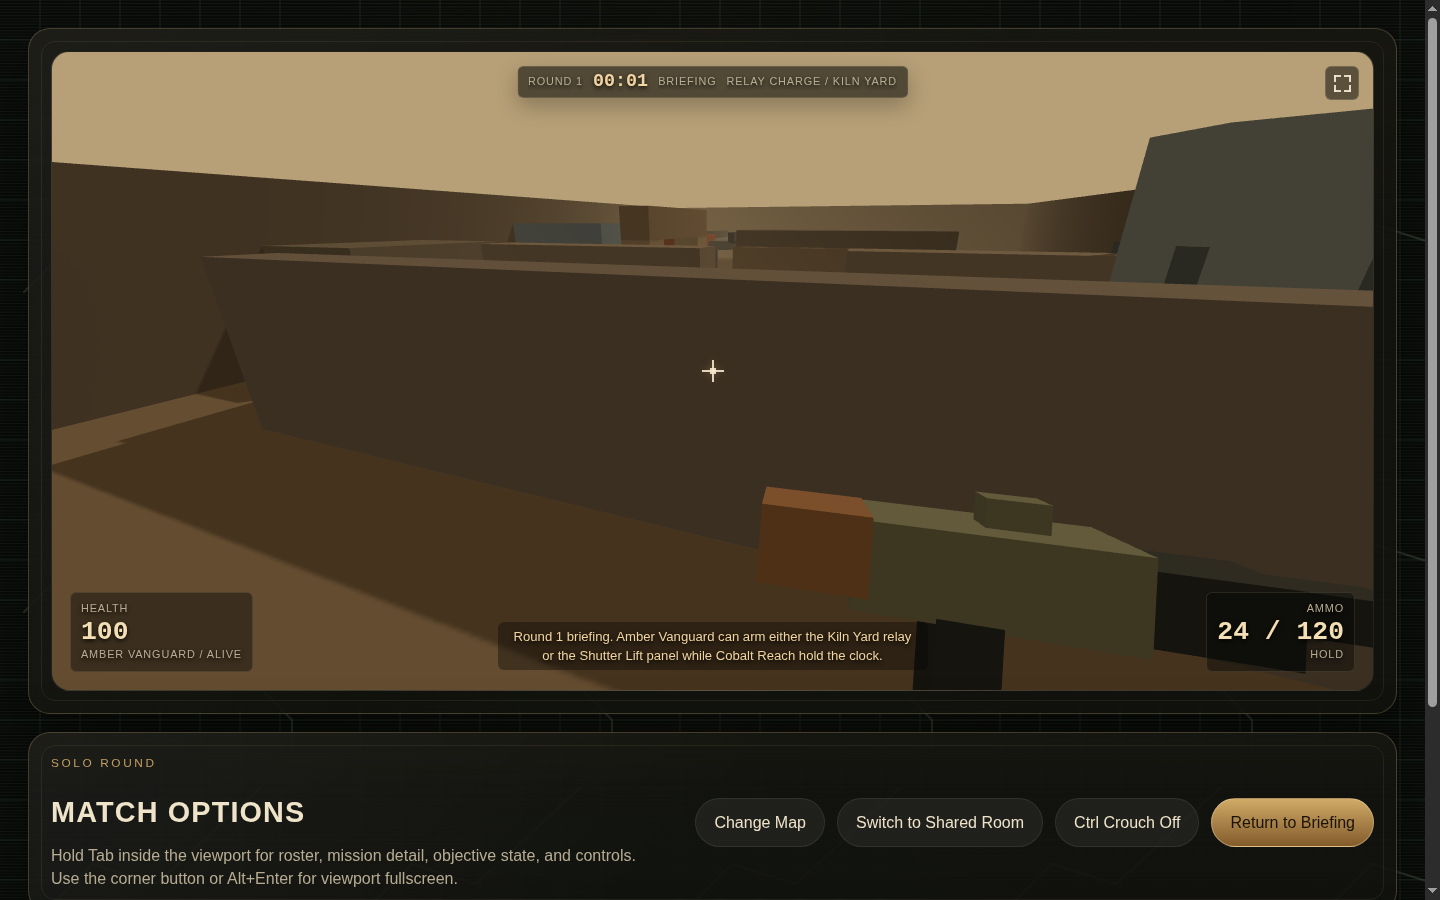
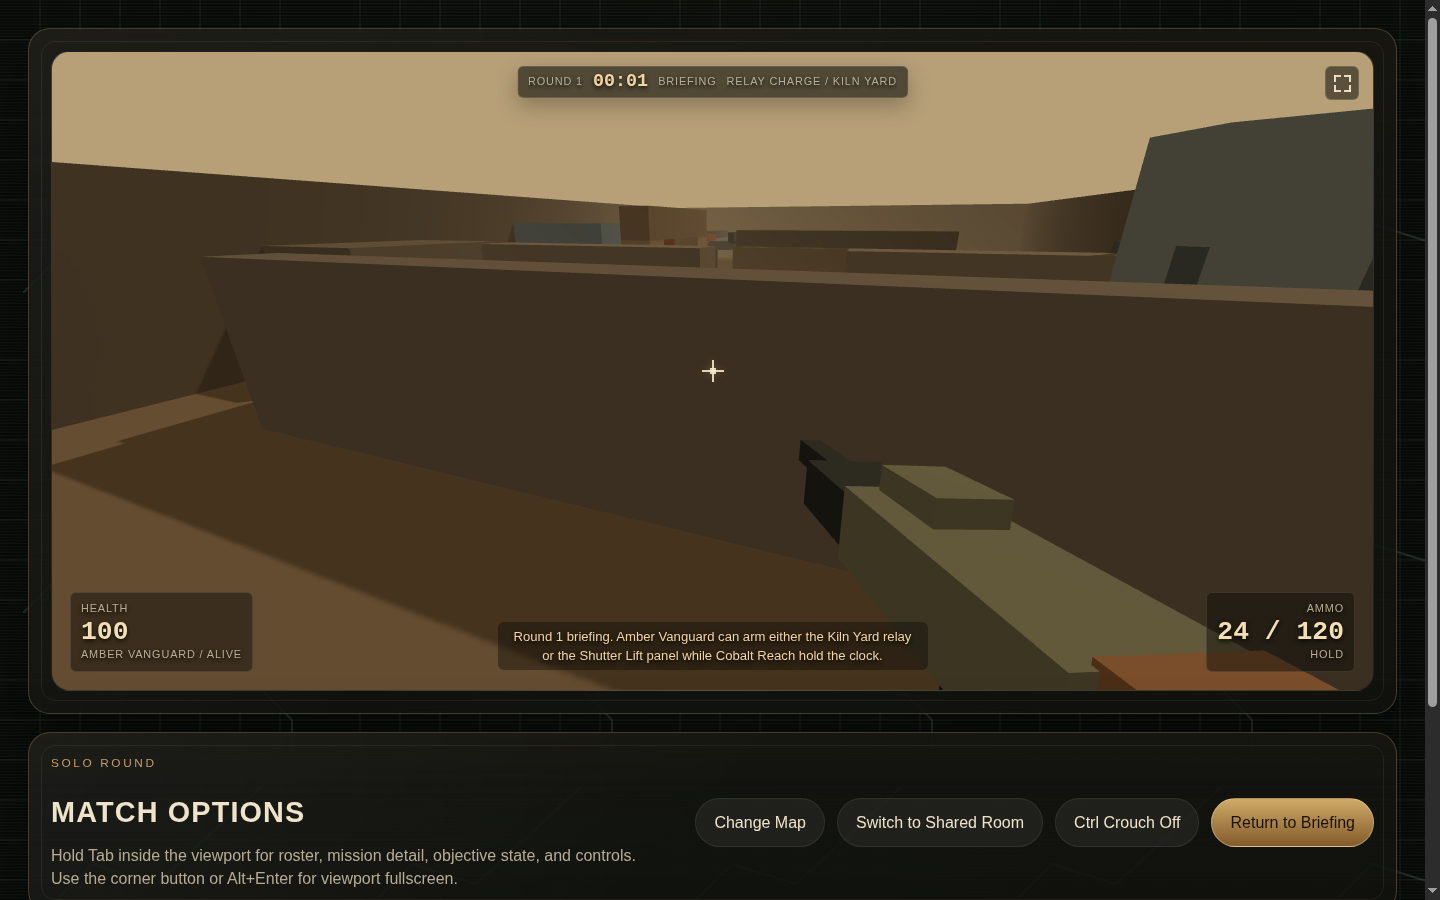
botpipe: step goal run-20260529T002603Z-75670396 14 work_subgoal

Changed region(s): [[0.5312, 0.4978, 0.9375, 0.7778], [0.9375, 0.6533, 0.9688, 0.7156]]

diff --git a/src/game/localMatch.ts b/src/game/localMatch.ts
@@ -498,6 +498,7 @@ export class LocalMatch {
         rendererWidth: this.renderer.domElement.width,
         rendererHeight: this.renderer.domElement.height,
       },
+      weaponView: this.weaponViewSnapshot(),
       localPlayer: {
         id: this.playerIdentity.id,
         name: this.playerIdentity.name,
@@ -587,6 +588,7 @@ export class LocalMatch {
         alive: enemy.alive,
         health: enemy.health,
         position: this.toPoint(enemy.avatar.group.position, 0),
+        posture: this.combatantPostureSnapshot(enemy.avatar.group, enemy.alive),
         ai: {
           role: enemy.ai.role,
           behavior: enemy.ai.behavior,
@@ -630,6 +632,7 @@ export class LocalMatch {
         status: actor.status,
         health: actor.health,
         position: this.toPoint(actor.displayPosition),
+        posture: this.combatantPostureSnapshot(actor.avatar.group, actor.status === "alive"),
       })),
     };
   }
@@ -958,11 +961,7 @@ export class LocalMatch {
     }
 
     enemy.avatar.group.position.copy(caseData.enemyPosition);
-    enemy.avatar.group.lookAt(
-      caseData.blockedPlayerPosition.x,
-      this.playerEyeHeight,
-      caseData.blockedPlayerPosition.z,
-    );
+    this.faceCombatantAt(enemy.avatar.group, caseData.enemyPosition, caseData.blockedPlayerPosition);
     this.configureEnemyAi(enemy, this.enemies.indexOf(enemy));
     this.lastPlayerNoiseAt = Number.NEGATIVE_INFINITY;
     this.lastPlayerNoisePosition.copy(caseData.blockedPlayerPosition);
@@ -1401,6 +1400,7 @@ export class LocalMatch {
       actor.targetPosition.copy(spawn);
       actor.displayPosition.copy(spawn);
       actor.avatar.group.position.copy(spawn);
+      actor.avatar.group.rotation.set(0, 0, 0);
       actor.hitFlashUntil = 0;
     }
   }
@@ -1497,13 +1497,22 @@ export class LocalMatch {
       existing.deaths = presence.deaths;
       existing.status = presence.status;
       existing.targetPosition.set(presence.position[0], 0, presence.position[2]);
-      existing.forward.set(presence.look[0], 0, presence.look[2]).normalize();
+      this.tempLook.set(presence.look[0], 0, presence.look[2]);
+      if (this.tempLook.lengthSq() > 0.0001) {
+        existing.forward.copy(this.tempLook.normalize());
+      }
       existing.lastSeenAt = presence.updatedAt;
       return;
     }
 
     const avatar = createCombatantAvatar(presence.accentColor);
     const spawnPosition = new THREE.Vector3(presence.position[0], 0, presence.position[2]);
+    const forward = new THREE.Vector3(presence.look[0], 0, presence.look[2]);
+    if (forward.lengthSq() > 0.0001) {
+      forward.normalize();
+    } else {
+      forward.set(0, 0, -1);
+    }
     avatar.group.position.copy(spawnPosition);
     this.scene.add(avatar.group);
 
@@ -1525,7 +1534,7 @@ export class LocalMatch {
       status: presence.status,
       targetPosition: spawnPosition.clone(),
       displayPosition: spawnPosition.clone(),
-      forward: new THREE.Vector3(presence.look[0], 0, presence.look[2]).normalize(),
+      forward,
       moveBlend: 0,
       hitFlashUntil: 0,
       lastSeenAt: presence.updatedAt,
@@ -2728,12 +2737,8 @@ export class LocalMatch {
       actor.avatar.group.position.x = actor.displayPosition.x;
       actor.avatar.group.position.z = actor.displayPosition.z;
 
-      const facing = actor.forward.lengthSq() > 0.01 ? actor.forward : new THREE.Vector3(0, 0, 1);
-      actor.avatar.group.lookAt(
-        actor.displayPosition.x + facing.x,
-        0.9,
-        actor.displayPosition.z + facing.z,
-      );
+      const facing = actor.forward.lengthSq() > 0.01 ? actor.forward : this.tempLook.set(0, 0, -1);
+      this.setCombatantYawFromDirection(actor.avatar.group, facing.x, facing.z);
 
       const moving = actor.displayPosition.distanceTo(actor.targetPosition) > 0.06 ? 1 : 0;
       actor.moveBlend = THREE.MathUtils.damp(actor.moveBlend, moving, 9, delta);
@@ -2953,7 +2958,7 @@ export class LocalMatch {
       enemy.ai.targetPosition.copy(targetPosition);
 
       const lookTarget = canSeePlayer ? playerFeet : targetPosition;
-      enemy.avatar.group.lookAt(lookTarget.x, this.enemyEyeHeight(enemy), lookTarget.z);
+      this.faceCombatantAt(enemy.avatar.group, enemyPosition, lookTarget);
 
       if (canSeePlayer && shotProfile && !previousVisibility) {
         enemy.nextFireAt = Math.max(enemy.nextFireAt, now + shotProfile.reactionSeconds);
@@ -3666,6 +3671,71 @@ export class LocalMatch {
     );
   }
 
+  private setCombatantYawFromDirection(
+    group: THREE.Object3D,
+    directionX: number,
+    directionZ: number,
+  ): void {
+    if (directionX * directionX + directionZ * directionZ <= 0.0001) {
+      group.rotation.x = 0;
+      group.rotation.z = 0;
+      return;
+    }
+
+    // Match Object3D.lookAt's local -Z facing convention without pitching the avatar root.
+    group.rotation.set(0, Math.atan2(-directionX, -directionZ), 0);
+  }
+
+  private faceCombatantAt(
+    group: THREE.Object3D,
+    origin: THREE.Vector3,
+    target: THREE.Vector3,
+  ): void {
+    this.setCombatantYawFromDirection(group, target.x - origin.x, target.z - origin.z);
+  }
+
+  private weaponViewSnapshot(): Record<string, unknown> {
+    this.camera.updateMatrixWorld(true);
+    this.weaponRig.muzzle.updateWorldMatrix(true, false);
+
+    const muzzleCameraPosition = this.weaponRig.muzzle.getWorldPosition(new THREE.Vector3());
+    this.camera.worldToLocal(muzzleCameraPosition);
+
+    const barrelForward = new THREE.Vector3(0, 0, -1)
+      .applyEuler(this.weaponRig.group.rotation)
+      .normalize();
+    const rootPosition = this.weaponRig.group.position;
+
+    return {
+      rootPosition: this.toPoint(rootPosition),
+      rootRotation: this.toRotation(this.weaponRig.group.rotation),
+      barrelForward: this.toPoint(barrelForward),
+      muzzleCameraPosition: this.toPoint(muzzleCameraPosition),
+      lowRight: rootPosition.x > 0.28 && rootPosition.y < -0.25 && rootPosition.z < -0.35,
+      forwardAligned: barrelForward.z < -0.94,
+      muzzleAheadOfRoot: muzzleCameraPosition.z < rootPosition.z - 0.18,
+      muzzleFlashActive: this.muzzleFlashUntil > this.gameNow(),
+      muzzleFlashRecent: this.muzzleFlashUntil > 0 && this.gameNow() <= this.muzzleFlashUntil + 0.35,
+      flashVisible: this.weaponRig.flash.visible,
+    };
+  }
+
+  private combatantPostureSnapshot(
+    group: THREE.Object3D,
+    alive: boolean,
+  ): Record<string, unknown> {
+    const feetY = Number(group.position.y.toFixed(3));
+    const rootPitch = Number(group.rotation.x.toFixed(4));
+    const rootRoll = Number(group.rotation.z.toFixed(4));
+
+    return {
+      rotation: this.toRotation(group.rotation),
+      feetY,
+      upright: !alive || (Math.abs(rootPitch) <= 0.01 && Math.abs(rootRoll) <= 0.08),
+      aboveGround: !alive || feetY >= -0.01,
+    };
+  }
+
   private enemyEyeHeight(enemy: EnemyActor, stance = enemy.ai.stance): number {
     return stance === "crouched" ? ENEMY_CROUCH_EYE_HEIGHT : ENEMY_STANDING_EYE_HEIGHT;
   }
@@ -3916,6 +3986,14 @@ export class LocalMatch {
       x: Number(vector.x.toFixed(2)),
       y: Number((forcedY ?? vector.y).toFixed(2)),
       z: Number(vector.z.toFixed(2)),
+    };
+  }
+
+  private toRotation(euler: THREE.Euler): { x: number; y: number; z: number } {
+    return {
+      x: Number(euler.x.toFixed(4)),
+      y: Number(euler.y.toFixed(4)),
+      z: Number(euler.z.toFixed(4)),
     };
   }
 }

diff --git a/src/game/avatar.ts b/src/game/avatar.ts
@@ -14,6 +14,8 @@ export interface CombatantAvatar {
 
 export interface WeaponRig {
   group: THREE.Group;
+  muzzle: THREE.Object3D;
+  flash: THREE.Object3D;
   update(
     elapsed: number,
     moveBlend: number,
@@ -144,6 +146,7 @@ export function createCombatantAvatar(accentColor: string): CombatantAvatar {
       torso.rotation.z = alive ? Math.sin(elapsed * 3.2) * 0.035 * moveBlend : -0.18;
       rifle.rotation.z = alive ? -0.12 - recoil * 0.18 : -0.48;
       rifle.rotation.x = alive ? -0.08 : 0.22;
+      group.rotation.x = 0;
       group.rotation.z = alive ? 0 : 1.34;
       group.position.y = alive ? 0 : 0.08;
 
@@ -165,37 +168,43 @@ export function createWeaponRig(): WeaponRig {
     opacity: 0.92,
   });
 
-  const receiver = new THREE.Mesh(new THREE.BoxGeometry(0.52, 0.18, 0.18), bodyMaterial);
-  receiver.position.set(0, 0.02, 0);
+  const receiver = new THREE.Mesh(new THREE.BoxGeometry(0.28, 0.18, 0.58), bodyMaterial);
+  receiver.position.set(0.02, 0.02, -0.08);
   group.add(receiver);
 
-  const stock = new THREE.Mesh(new THREE.BoxGeometry(0.22, 0.16, 0.16), accentMaterial);
-  stock.position.set(-0.34, 0.04, 0.02);
+  const stock = new THREE.Mesh(new THREE.BoxGeometry(0.24, 0.16, 0.24), accentMaterial);
+  stock.position.set(0.04, 0.04, 0.32);
   group.add(stock);
 
-  const handguard = new THREE.Mesh(new THREE.BoxGeometry(0.32, 0.14, 0.14), detailMaterial);
-  handguard.position.set(0.34, 0.01, 0);
+  const handguard = new THREE.Mesh(new THREE.BoxGeometry(0.24, 0.14, 0.36), detailMaterial);
+  handguard.position.set(0.02, 0.01, -0.5);
   group.add(handguard);
 
   const grip = new THREE.Mesh(new THREE.BoxGeometry(0.12, 0.28, 0.12), detailMaterial);
-  grip.position.set(-0.04, -0.2, 0.03);
+  grip.position.set(0.02, -0.2, -0.02);
   group.add(grip);
 
-  const sight = new THREE.Mesh(new THREE.BoxGeometry(0.12, 0.06, 0.06), bodyMaterial);
-  sight.position.set(0.06, 0.14, 0);
+  const sight = new THREE.Mesh(new THREE.BoxGeometry(0.16, 0.06, 0.2), bodyMaterial);
+  sight.position.set(0.02, 0.15, -0.22);
   group.add(sight);
 
-  const barrel = new THREE.Mesh(new THREE.BoxGeometry(0.22, 0.08, 0.08), detailMaterial);
-  barrel.position.set(0.58, 0.03, 0);
+  const barrel = new THREE.Mesh(new THREE.BoxGeometry(0.08, 0.08, 0.32), detailMaterial);
+  barrel.position.set(0.02, 0.03, -0.82);
   group.add(barrel);
 
+  const muzzle = new THREE.Object3D();
+  muzzle.position.set(0.02, 0.03, -1);
+  group.add(muzzle);
+
   const flash = new THREE.Mesh(new THREE.BoxGeometry(0.18, 0.18, 0.18), flashMaterial);
-  flash.position.set(0.73, 0.03, 0);
+  flash.position.copy(muzzle.position);
   flash.visible = false;
   group.add(flash);
 
   return {
     group,
+    muzzle,
+    flash,
     update(elapsed, moveBlend, recoil, firing, crouchBlend, airborneBlend) {
       const bob = Math.sin(elapsed * 9.4) * 0.018 * moveBlend;
       const sway = Math.cos(elapsed * 4.2) * 0.01;
@@ -203,14 +212,14 @@ export function createWeaponRig(): WeaponRig {
       const airborneLift = 0.05 * airborneBlend;
 
       group.position.set(
-        0.56 + sway,
+        0.48 + sway,
         -0.48 + bob - recoil * 0.08 - crouchDrop + airborneLift,
-        -0.92 + recoil * 0.14 + crouchBlend * 0.05,
+        -0.72 + recoil * 0.14 + crouchBlend * 0.05,
       );
       group.rotation.set(
-        -0.1 + recoil * 0.08 - crouchBlend * 0.04 + airborneBlend * 0.06,
-        -0.18,
-        -0.08 - recoil * 0.12 - crouchBlend * 0.02,
+        0.04 + recoil * 0.08 - crouchBlend * 0.04 + airborneBlend * 0.06,
+        0.13 + recoil * 0.02,
+        -0.07 - recoil * 0.12 - crouchBlend * 0.02,
       );
 
       flash.visible = firing;
